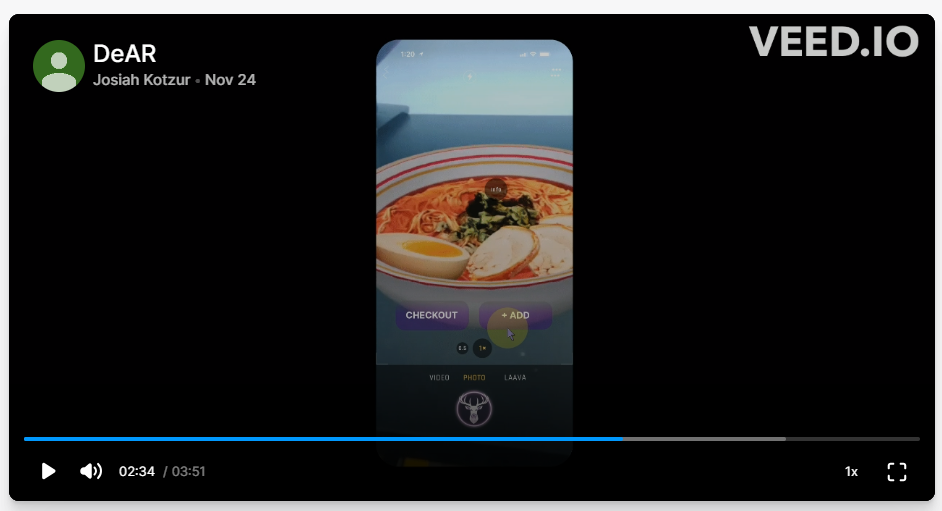
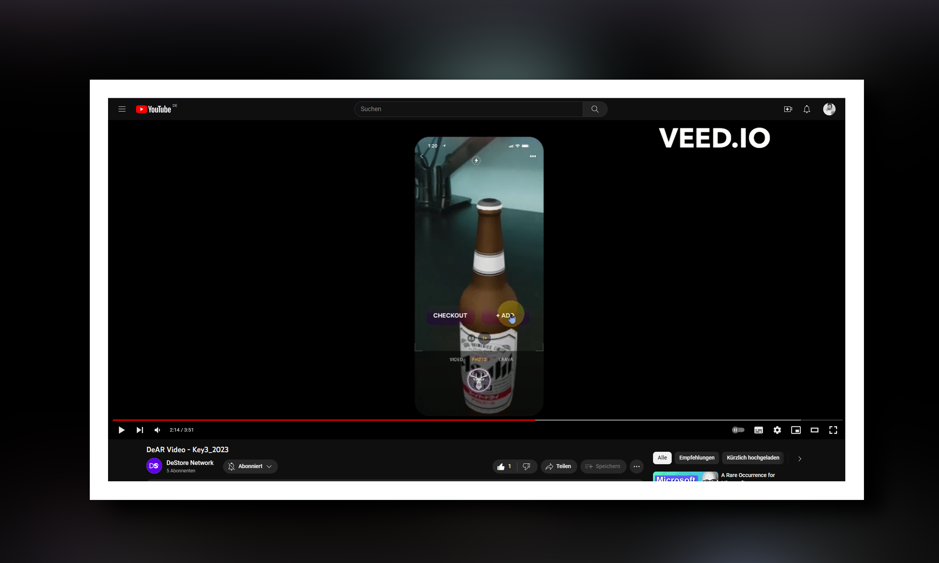
:abc: (./README.md) add git tag, change to YT-Link

diff --git a/README.md b/README.md
@@ -8,7 +8,7 @@
     <br />
     <a href="https://www.figma.com/file/qRxZ8cGgMzSzkXVlJCWT7r/Untitled?type=design&node-id=0%3A1&mode=design&t=DcRb7pW8QcXjCKaM-1" name="Figma">Figma</a>
     ·
-    <a href="https://www.veed.io/view/92440012-a395-46d5-b8b5-3ea5cba41642?panel=share">Video</a>
+    <a href="https://www.youtube.com/watch?v=hG8W9gf47bg">Video</a>
     ·
     <a href="https://github.com/FrankBevr/Key3D">Code</a>
     ·
@@ -16,9 +16,12 @@
   </p>
 </div>
 
+> ⚠ See state @ sumission deadline  
+> `git checkout deadline`
+
 ### Video
 
-<a href="https://www.veed.io/view/92440012-a395-46d5-b8b5-3ea5cba41642?panel=share">
+<a href="https://www.youtube.com/watch?v=hG8W9gf47bg">
 <img src="./screenshot.png" width="500" height="300"></img>
 </a> 
 
@@ -33,7 +36,7 @@
 - Skretch out `./SmartContract`, `./Backend`
 - Frontend Section unfinished, desired goal definied in
   [MVP Recfactor](./UiUx/DeAr-JapanHack.pdf)
-- Generate [Video](https://www.veed.io/view/92440012-a395-46d5-b8b5-3ea5cba41642?panel=share)
+- Generate [Video](https://www.youtube.com/watch?v=hG8W9gf47bg)
 
 **More Details**
 
